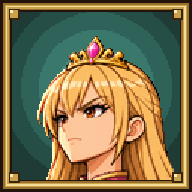
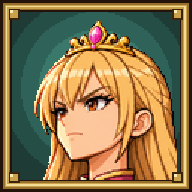
圖示：Vivi 的頭往上移到正中間

diff --git a/tools/icon.py b/tools/icon.py
@@ -4,13 +4,14 @@
 import os
 from PIL import Image, ImageDraw
 os.chdir(os.path.dirname(os.path.dirname(os.path.abspath(__file__)))); os.makedirs('icons', exist_ok=True)
-bust = Image.open('art/cutin/bust_vivi.png').convert('RGBA').crop((70, 0, 710, 640))      # 皇冠到領口
+bust = Image.open('art/cutin/bust_vivi.png').convert('RGBA').crop((80, 0, 680, 926))      # 寬 600：皇冠到肩膀；往下留到衣服，貼圖時超出畫布的部分自然被裁掉
 N = 128
 def base(framed):
     im = Image.new('RGBA', (N, N), (30, 59, 54, 255)); d = ImageDraw.Draw(im)
     for r, col in ((62, (37, 78, 70)), (50, (47, 99, 89)), (38, (58, 120, 107)), (26, (72, 140, 124))): d.ellipse((N / 2 - r, N * .46 - r, N / 2 + r, N * .46 + r), fill=col + (255,))      # 背景：墨綠，中間亮一點
-    k = 104 if framed else 96; b = bust.resize((k, k), Image.LANCZOS); a = b.getchannel('A').point(lambda v: 255 if v > 128 else 0); b.putalpha(a)
-    im.alpha_composite(b, ((N - k) // 2, N - k))      # 人物貼齊下緣，不會看到半身像的切邊
+    # 頭要在圖示正中間：皇冠頂離上緣一點點、下巴在下方四分之一處（使用者說原本頭太下面）
+    k = 108 if framed else 96; b = bust.resize((k, round(926 * k / 600)), Image.LANCZOS); a = b.getchannel('A').point(lambda v: 255 if v > 128 else 0); b.putalpha(a)
+    im.alpha_composite(b, ((N - k) // 2, 13 if framed else 20))
     if framed:      # 黃銅邊框：深色外框、黃銅、內側亮線與暗線、四角鉚釘
         d = ImageDraw.Draw(im)
         for i, col in enumerate([(36, 19, 11), (36, 19, 11), (150, 112, 44), (202, 162, 76), (242, 220, 150), (202, 162, 76), (150, 112, 44), (36, 19, 11)]): d.rectangle((i, i, N - 1 - i, N - 1 - i), outline=col + (255,))
